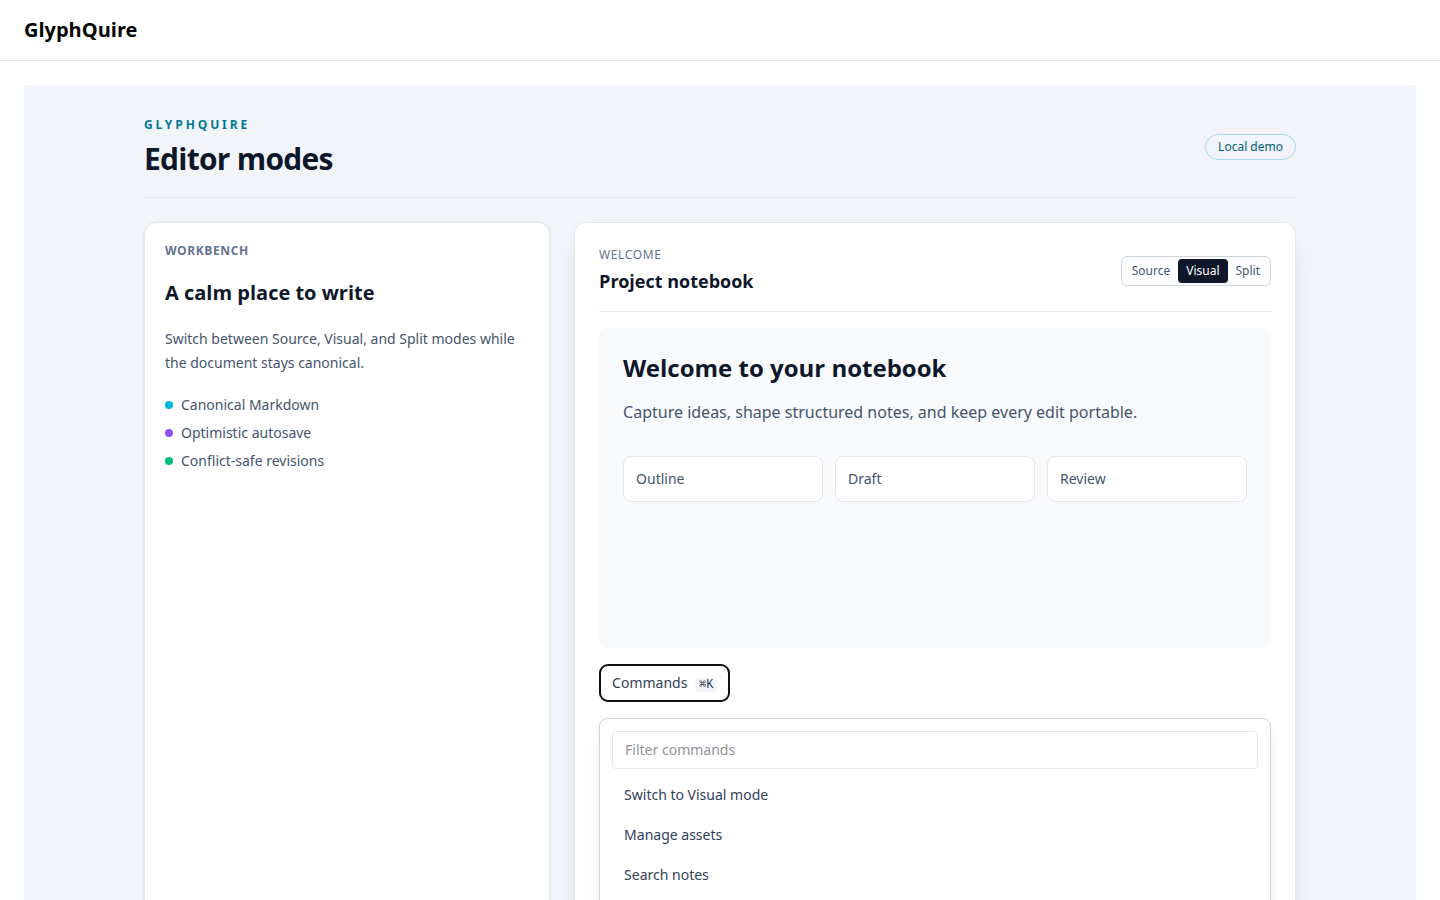
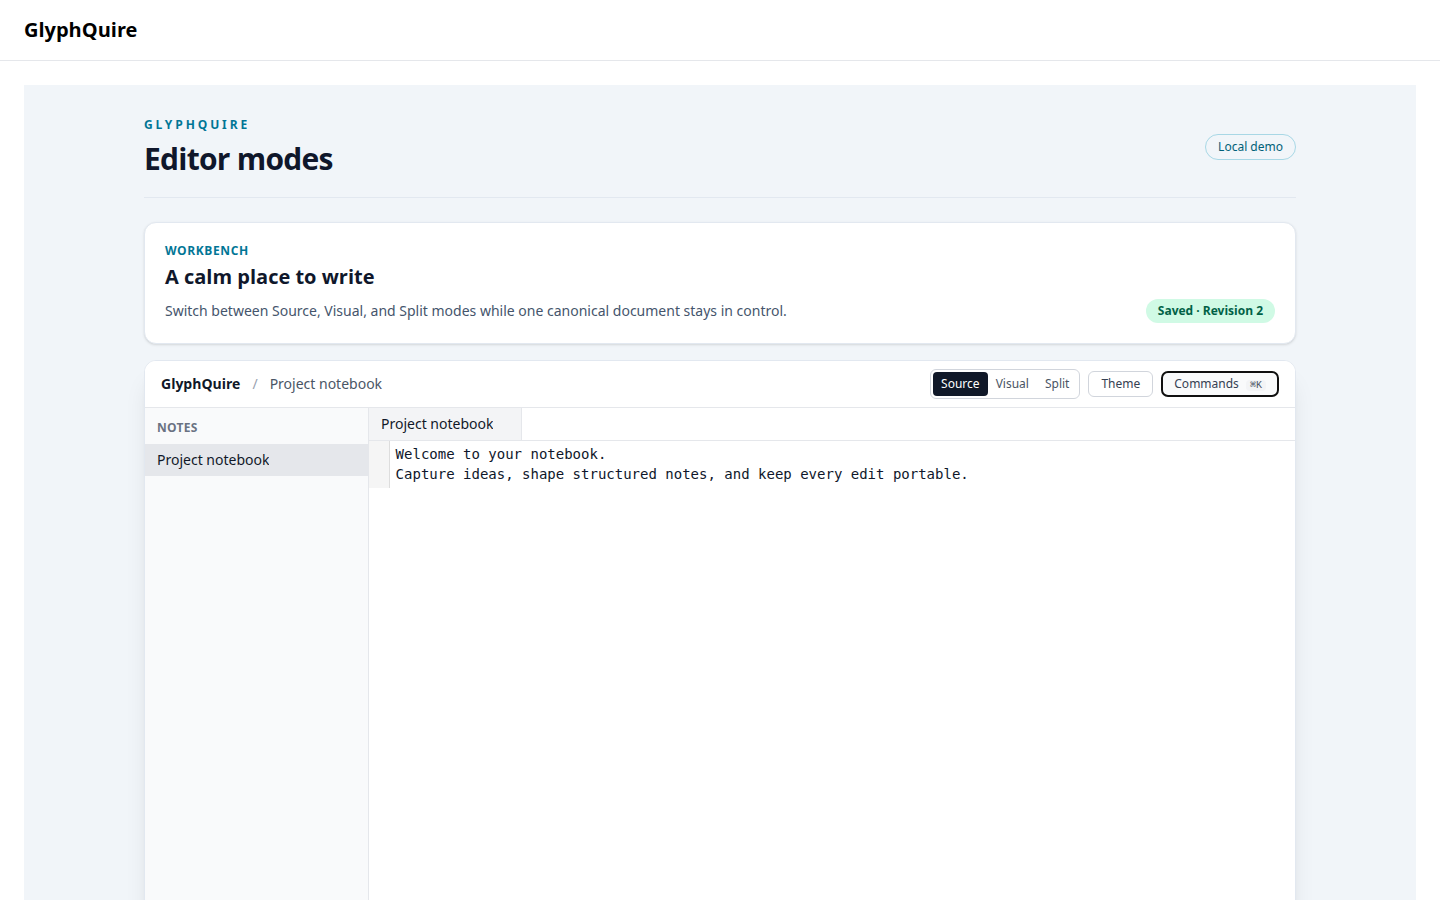
fix: polish README demo scenes

diff --git a/apps/web/src/pages/ReadmeDemoPage.vue b/apps/web/src/pages/ReadmeDemoPage.vue
@@ -11,114 +11,35 @@
         >
       </header>
 
-      <section v-if="scene === 'modes'" class="grid gap-6 lg:grid-cols-[0.72fr_1.28fr]">
-        <aside class="space-y-5 rounded-xl border border-slate-200 bg-white p-5 shadow-sm">
-          <p class="text-xs font-semibold uppercase tracking-wider text-slate-500">Workbench</p>
-          <h2 class="text-xl font-semibold">A calm place to write</h2>
-          <p class="text-sm leading-6 text-slate-600">
-            Switch between Source, Visual, and Split modes while the document stays canonical.
-          </p>
-          <div class="space-y-2 text-sm text-slate-600">
-            <p class="flex items-center gap-2">
-              <span class="h-2 w-2 rounded-full bg-cyan-500" />Canonical Markdown
-            </p>
-            <p class="flex items-center gap-2">
-              <span class="h-2 w-2 rounded-full bg-violet-500" />Optimistic autosave
-            </p>
-            <p class="flex items-center gap-2">
-              <span class="h-2 w-2 rounded-full bg-emerald-500" />Conflict-safe revisions
+      <section v-if="scene === 'modes'" class="space-y-4">
+        <div
+          class="flex items-end justify-between rounded-xl border border-slate-200 bg-white p-5 shadow-sm"
+        >
+          <div>
+            <p class="text-xs font-semibold uppercase tracking-wider text-cyan-700">Workbench</p>
+            <h2 class="mt-1 text-xl font-semibold">A calm place to write</h2>
+            <p class="mt-2 max-w-2xl text-sm leading-6 text-slate-600">
+              Switch between Source, Visual, and Split modes while one canonical document stays in
+              control.
             </p>
           </div>
-        </aside>
-        <section class="space-y-4 rounded-xl border border-slate-200 bg-white p-6 shadow-xl">
-          <div class="flex items-center justify-between border-b border-slate-200 pb-4">
-            <div>
-              <p class="text-xs uppercase tracking-wider text-slate-500">Welcome</p>
-              <h2 class="mt-1 text-lg font-semibold">Project notebook</h2>
-            </div>
-            <div
-              role="radiogroup"
-              aria-label="Editor mode"
-              class="flex rounded-md border border-slate-300 p-0.5 text-xs"
-            >
-              <button
-                type="button"
-                role="radio"
-                aria-checked="false"
-                class="rounded px-2 py-1 text-slate-600"
-              >
-                Source
-              </button>
-              <button
-                type="button"
-                role="radio"
-                aria-checked="true"
-                class="rounded bg-slate-900 px-2 py-1 text-white"
-              >
-                Visual
-              </button>
-              <button
-                type="button"
-                role="radio"
-                aria-checked="false"
-                class="rounded px-2 py-1 text-slate-600"
-              >
-                Split
-              </button>
-            </div>
-          </div>
-          <div
-            role="tabpanel"
-            aria-label="Project editor"
-            class="min-h-[320px] rounded-lg bg-slate-50 p-6"
+          <span
+            aria-label="Save status"
+            class="rounded-full bg-emerald-100 px-3 py-1 text-xs font-semibold text-emerald-800"
           >
-            <p class="text-2xl font-semibold text-slate-900">Welcome to your notebook</p>
-            <p class="mt-4 max-w-xl text-slate-600">
-              Capture ideas, shape structured notes, and keep every edit portable.
-            </p>
-            <div class="mt-8 grid gap-3 sm:grid-cols-3">
-              <div class="rounded-lg border border-slate-200 bg-white p-3 text-sm text-slate-600">
-                Outline
-              </div>
-              <div class="rounded-lg border border-slate-200 bg-white p-3 text-sm text-slate-600">
-                Draft
-              </div>
-              <div class="rounded-lg border border-slate-200 bg-white p-3 text-sm text-slate-600">
-                Review
-              </div>
-            </div>
-          </div>
-          <button
-            type="button"
-            aria-label="Open command palette"
-            class="rounded-lg border border-slate-300 px-3 py-2 text-sm text-slate-700"
-            @click="paletteOpen = true"
-          >
-            Commands <kbd class="ml-1 rounded bg-slate-100 px-1 text-xs">⌘K</kbd>
-          </button>
-          <div
-            v-if="paletteOpen"
-            role="dialog"
-            aria-label="Command palette"
-            class="rounded-lg border border-slate-300 bg-white p-3 shadow-lg"
-          >
-            <input
-              aria-label="Filter commands"
-              placeholder="Filter commands"
-              class="w-full rounded border border-slate-200 px-3 py-2 text-sm"
-            />
-            <ul role="listbox" aria-label="Commands" class="mt-2 space-y-1 text-sm">
-              <li
-                v-for="command in commands"
-                :key="command"
-                role="option"
-                class="rounded px-3 py-2 text-slate-700"
-              >
-                {{ command }}
-              </li>
-            </ul>
-          </div>
-        </section>
+            Saved · Revision 2
+          </span>
+        </div>
+        <div
+          class="h-[650px] overflow-hidden rounded-xl border border-slate-200 bg-white shadow-xl"
+        >
+          <Workbench
+            :initial-notes="demoNotes"
+            :session-factory="demoSessionFactory"
+            :phase5-workspace-id="WORKSPACE_ID"
+            :phase5-note-id="NOTE_ID"
+          />
+        </div>
       </section>
 
       <section v-else-if="scene === 'semantic'" class="grid gap-6 lg:grid-cols-[0.8fr_1.2fr]">
@@ -142,7 +63,7 @@
         <section
           data-testid="readme-semantic-editor"
           aria-label="Semantic editor"
-          class="rounded-xl bg-white p-6 shadow-xl"
+          class="readme-semantic-editor rounded-xl bg-white p-6 shadow-xl"
         >
           <VisualEditor :markdown="semanticMarkdown" :read-only="true" />
         </section>
@@ -189,23 +110,19 @@
 </template>
 
 <script setup lang="ts">
-import { computed, ref } from "vue";
+import { computed } from "vue";
 import Phase5MaintenancePanel from "../components/admin/Phase5MaintenancePanel.vue";
 import SearchPalette from "../components/search/SearchPalette.vue";
 import TransferDialog from "../components/transfer/TransferDialog.vue";
 import VisualEditor from "../components/visual/VisualEditor.vue";
 import type { Phase5MaintenanceClient } from "../api/Phase5Client.js";
+import Workbench from "../components/workbench/Workbench.vue";
+import type { EditorSession, EditorSessionState } from "../editors/editor-session.types.js";
+import type { WorkbenchNote } from "../components/workbench/types.js";
 
 const WORKSPACE_ID = "11111111-1111-4111-8111-111111111111";
+const NOTE_ID = "22222222-2222-4222-8222-222222222222";
 const scene = computed(() => new URLSearchParams(window.location.search).get("scene"));
-const paletteOpen = ref(false);
-const commands = [
-  "Switch to Visual mode",
-  "Manage assets",
-  "Search notes",
-  "Import or export",
-  "Create read-only share link",
-];
 const title = computed(() =>
   scene.value === "modes"
     ? "Editor modes"
@@ -251,6 +168,72 @@ Visual blocks stay easy to scan.
 
 ::::
 `;
+
+const demoNotes: readonly WorkbenchNote[] = [
+  {
+    id: NOTE_ID,
+    title: "Project notebook",
+    markdown:
+      "Welcome to your notebook.\nCapture ideas, shape structured notes, and keep every edit portable.",
+  },
+];
+
+const demoSessionFactory = async (): Promise<EditorSession> => {
+  let current: EditorSessionState = {
+    noteId: NOTE_ID,
+    markdown: demoNotes[0]?.markdown ?? "",
+    baseRevision: 2,
+    dirty: false,
+    saveStatus: "clean",
+    conflict: null,
+    mode: "source",
+    activePane: "source",
+    diagnostics: [],
+    readOnly: false,
+    isReadOnly: false,
+    draftDurability: "persisted",
+    draftDurabilityError: null,
+    autosave: {
+      status: "clean",
+      revision: 2,
+      lastSavedAt: "2026-08-30T00:00:00.000Z",
+      lastError: null,
+      conflict: null,
+      pending: null,
+    },
+  };
+  const listeners = new Set<(state: EditorSessionState) => void>();
+  const notify = () => listeners.forEach((listener) => listener(current));
+  return {
+    snapshot: () => current,
+    edit(markdown) {
+      current = { ...current, markdown, dirty: true, saveStatus: "dirty" };
+      notify();
+    },
+    async switchMode(mode) {
+      current = { ...current, mode, activePane: mode === "visual" ? "visual" : "source" };
+      notify();
+      return { success: true, mode };
+    },
+    async attachModeAdapters() {
+      return () => undefined;
+    },
+    async saveNow() {
+      current = { ...current, dirty: false, saveStatus: "saved" };
+      notify();
+    },
+    async requestTakeover() {
+      return false;
+    },
+    subscribe(listener) {
+      listeners.add(listener);
+      return () => listeners.delete(listener);
+    },
+    async dispose() {
+      listeners.clear();
+    },
+  };
+};
 const maintenanceClient: Phase5MaintenanceClient = {
   async getMaintenanceCapabilities() {
     return {
@@ -275,3 +258,50 @@ const maintenanceClient: Phase5MaintenanceClient = {
   },
 };
 </script>
+
+<style scoped>
+.readme-semantic-editor :deep([data-glyphquire-node] > header) {
+  display: none;
+}
+
+.readme-semantic-editor :deep([data-glyphquire-node="callout"]) {
+  border: 1px solid rgb(103 232 249 / 0.45);
+  border-radius: 0.75rem;
+  background: linear-gradient(135deg, rgb(236 254 255), rgb(239 246 255));
+  padding: 1rem 1.25rem;
+  color: rgb(15 23 42);
+}
+
+.readme-semantic-editor :deep([data-glyphquire-node="toggle"]) {
+  border: 1px solid rgb(196 181 253 / 0.55);
+  border-radius: 0.75rem;
+  background: rgb(250 245 255);
+  padding: 1rem 1.25rem;
+  color: rgb(30 27 75);
+}
+
+.readme-semantic-editor :deep([data-glyphquire-node="tabs"]) {
+  border: 1px solid rgb(251 191 36 / 0.55);
+  border-radius: 0.75rem;
+  background: rgb(255 251 235);
+  padding: 1rem 1.25rem;
+  color: rgb(69 26 3);
+}
+
+.readme-semantic-editor :deep([data-glyphquire-node="columns"]) {
+  display: flex;
+  gap: 1rem;
+  border-radius: 0.75rem;
+  background: rgb(248 250 252);
+  padding: 1rem;
+  color: rgb(30 41 59);
+}
+
+.readme-semantic-editor :deep([data-glyphquire-node="column"]) {
+  flex: 1;
+  border: 1px solid rgb(203 213 225);
+  border-radius: 0.5rem;
+  background: white;
+  padding: 0.875rem;
+}
+</style>

diff --git a/tests/e2e/readme-demo.spec.ts b/tests/e2e/readme-demo.spec.ts
@@ -39,7 +39,7 @@ async function assertDemoDomSafe(page: import("@playwright/test").Page): Promise
   }));
   const combined = [exposed.text, ...exposed.visibleTextNodes, ...exposed.attributes].join("\n");
   expect(combined).not.toMatch(
-    /(?:token=|bearer |presigned|https?:\/\/|postgresql:\/\/|s3[.-]|password=|cookie|data:|raw markdown|fixture(?: payload| id)?|provider(?: diagnostic| error)|asset:\/\/|glyphquire-spec|eyJ[\w-]{10,}\.[\w-]{10,}\.[\w-]{10,}|(?:api[_-]?key|secret|access[_-]?key)\s*=|(?:^|\n)\s{0,3}(?:#{1,6}\s+\S|```|[-*+]\s+\S|>\s+\S))/imu,
+    /(?:token=|bearer |presigned|https?:\/\/|file:\/\/|mailto:|postgresql:\/\/|s3[.-]|password=|cookie|data:|raw markdown|fixture(?: payload| id)?|provider(?: diagnostic| error)|accessdenied|signaturedoesnotmatch|asset:\/\/|glyphquire-spec|eyJ[\w-]{10,}\.[\w-]{10,}\.[\w-]{10,}|(?:ghp_|github_pat_|sk-(?:live|proj)-|xox[baprs]-|AIza[\w-]{20,})[\w-]+|(?:api[_-]?key|secret|access[_-]?key)\s*=|(?:^|\n)\s{0,3}(?:#{1,6}\s+\S|```|[-*+]\s+\S|>\s+\S)|\*\*[^*\n]+\*\*|\[[^\]\n]+\]\([^)]*\))/imu,
   );
 }
 
@@ -112,6 +112,7 @@ test("captures the four README demo scenes", async ({ page }) => {
   });
 
   await page.goto("/__readme-demo?scene=modes");
+  await expect(page.getByLabel("Save status")).toHaveText("Saved · Revision 2");
   await expect(page.getByRole("button", { name: "Open command palette" })).toBeVisible();
   await expect(page.getByRole("tabpanel", { name: /editor$/u })).toBeVisible();
   await expect(page.getByRole("radiogroup", { name: "Editor mode" })).toBeVisible();

diff --git a/docs/superpowers/plans/2026-08-30-readme-demo-screenshots.md b/docs/superpowers/plans/2026-08-30-readme-demo-screenshots.md
@@ -37,7 +37,7 @@
 
 - [ ] **Step 1: Write the failing capture assertions.**
 
-```ts
+````ts
 import { deflateSync, inflateSync } from "node:zlib";
 import { expect, test } from "@playwright/test";
 
@@ -52,7 +52,7 @@ async function assertDemoDomSafe(page: import("@playwright/test").Page): Promise
   }));
   const combined = [exposed.text, ...exposed.attributes].join("\n");
   expect(combined).not.toMatch(
-    /(?:token=|bearer |presigned|https?:\/\/|postgresql:\/\/|s3[.-]|password=|cookie|data:|raw markdown|fixture(?: payload| id)?|provider(?: diagnostic| error)|asset:\/\/|glyphquire-spec|eyJ[\w-]{10,}\.[\w-]{10,}\.[\w-]{10,}|(?:api[_-]?key|secret|access[_-]?key)\s*=|(?:^|\n)\s{0,3}(?:#{1,6}\s+\S|```|[-*+]\s+\S|>\s+\S))/imu,
+    /(?:token=|bearer |presigned|https?:\/\/|file:\/\/|mailto:|postgresql:\/\/|s3[.-]|password=|cookie|data:|raw markdown|fixture(?: payload| id)?|provider(?: diagnostic| error)|accessdenied|signaturedoesnotmatch|asset:\/\/|glyphquire-spec|eyJ[\w-]{10,}\.[\w-]{10,}\.[\w-]{10,}|(?:ghp_|github_pat_|sk-(?:live|proj)-|xox[baprs]-|AIza[\w-]{20,})[\w-]+|(?:api[_-]?key|secret|access[_-]?key)\s*=|(?:^|\n)\s{0,3}(?:#{1,6}\s+\S|```|[-*+]\s+\S|>\s+\S)|\*\*[^*\n]+\*\*|\[[^\]\n]+\]\([^)]*\))/imu,
   );
 }
 
@@ -65,7 +65,7 @@ test("captures the four README demo scenes", async ({ page }) => {
   await assertDemoDomSafe(page);
   await page.screenshot({ path: "docs/assets/readme/01-editor-modes.png", fullPage: false });
 });
-```
+````
 
 - [ ] **Step 2: Run the capture spec to verify the missing-output failure.**
 
@@ -90,7 +90,7 @@ Capture scene 1 from the Workbench, scene 2 from a rendered canonical note conta
 
 Run: `pnpm exec playwright test tests/e2e/readme-demo.spec.ts --project=e2e`
 
-Expected: 4 tests pass; each PNG is non-empty and `file docs/assets/readme/*.png` reports PNG images at 1440×900 or a bounded crop.
+Expected: the capture test passes and emits four non-empty PNGs; `file docs/assets/readme/*.png` reports PNG images at 1440×900 or a bounded crop.
 
 - [ ] **Step 5: Commit the capture fixture and assets.**
 
@@ -138,7 +138,7 @@ Expected: formatting passes and exactly four image paths are found.
 
 - [ ] **Step 3: Add the desktop/narrow rendering test.**
 
-```ts
+````ts
 import { readFileSync } from "node:fs";
 import { inflateSync } from "node:zlib";
 import { unified } from "unified";
@@ -368,7 +368,7 @@ test("inflates valid iTXt and rejects text separators, flags, methods, ordering,
   ];
   for (const bytes of malformed) expect(() => assertPngSafety(bytes)).toThrow();
 });
-```
+````
 
 The helper must run the checked-in README through a GFM-compatible
 `remark-parse`/`remark-gfm`/`remark-rehype`/`rehype-raw`/`rehype-sanitize`
